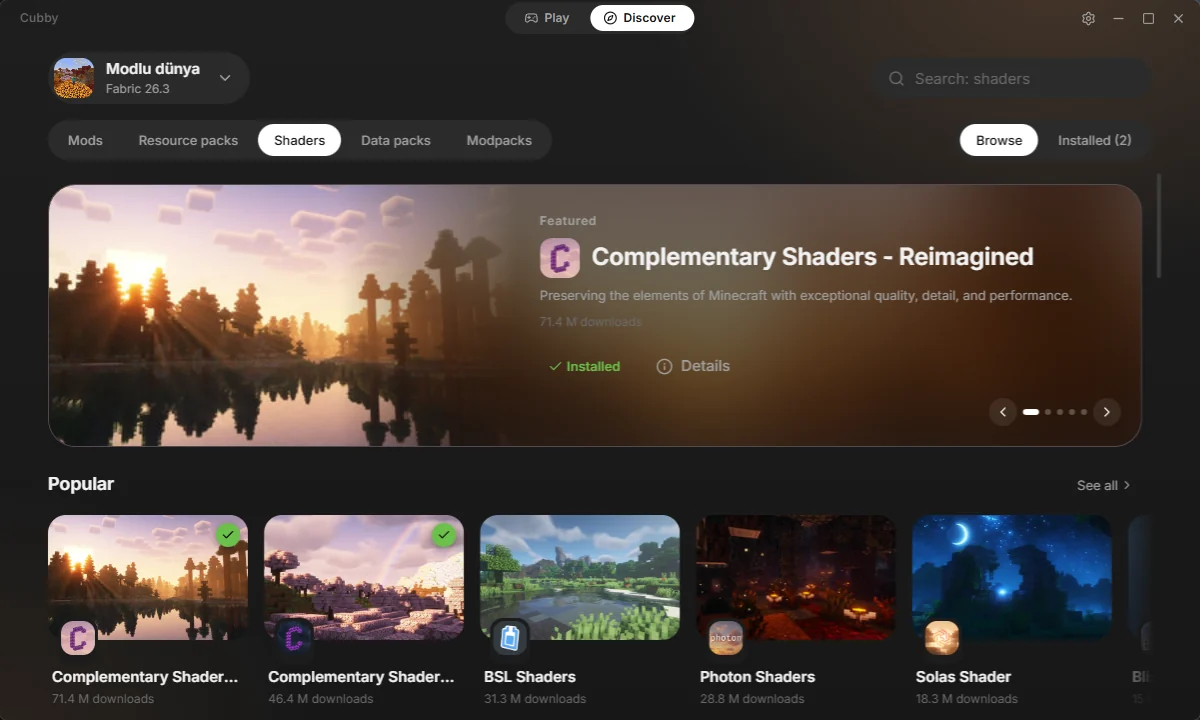
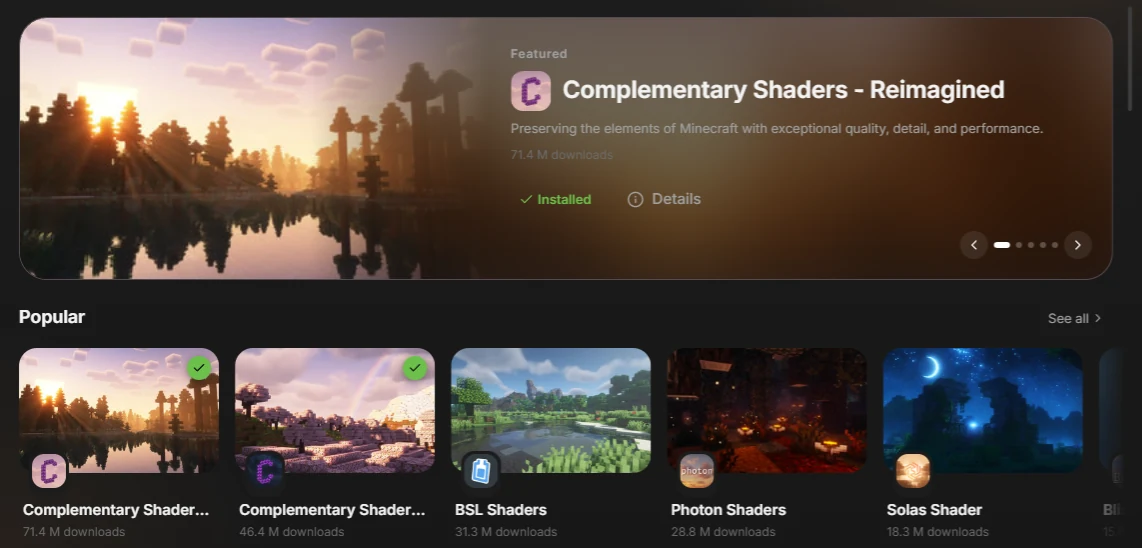
chore: site görselleri — okunur Keşfet kırpması, Oyna ekranı ve İndir arka planı

diff --git a/web/lib/site.ts b/web/lib/site.ts
@@ -34,7 +34,7 @@ const TEXT = {
     rows: [
       {
         img: "kesfet",
-        size: [1200, 720],
+        size: [1142, 548],
         eyebrow: "Keşfet",
         title: "Mod, shader, kaynak paketi. Tek tık.",
         text: "Modrinth'in tamamı uygulamanın içinde. Dünyanın sürümüne uyanı, gerektirdikleriyle birlikte kurar.",
@@ -113,7 +113,7 @@ const TEXT = {
     rows: [
       {
         img: "kesfet",
-        size: [1200, 720],
+        size: [1142, 548],
         eyebrow: "Discover",
         title: "Mods, shaders, resource packs. One click.",
         text: "All of Modrinth inside the app. It installs what fits your world's version, along with everything it needs.",
